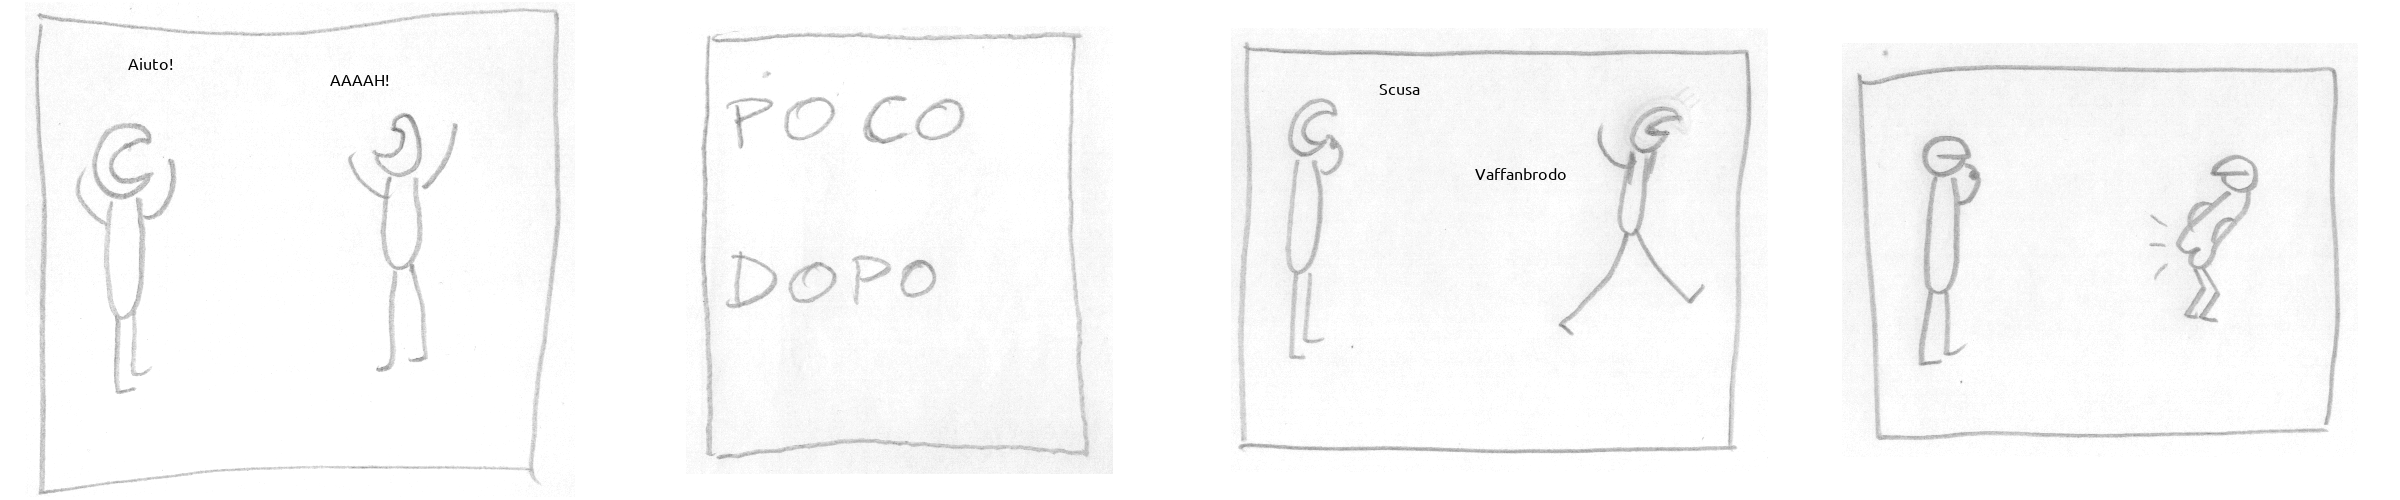
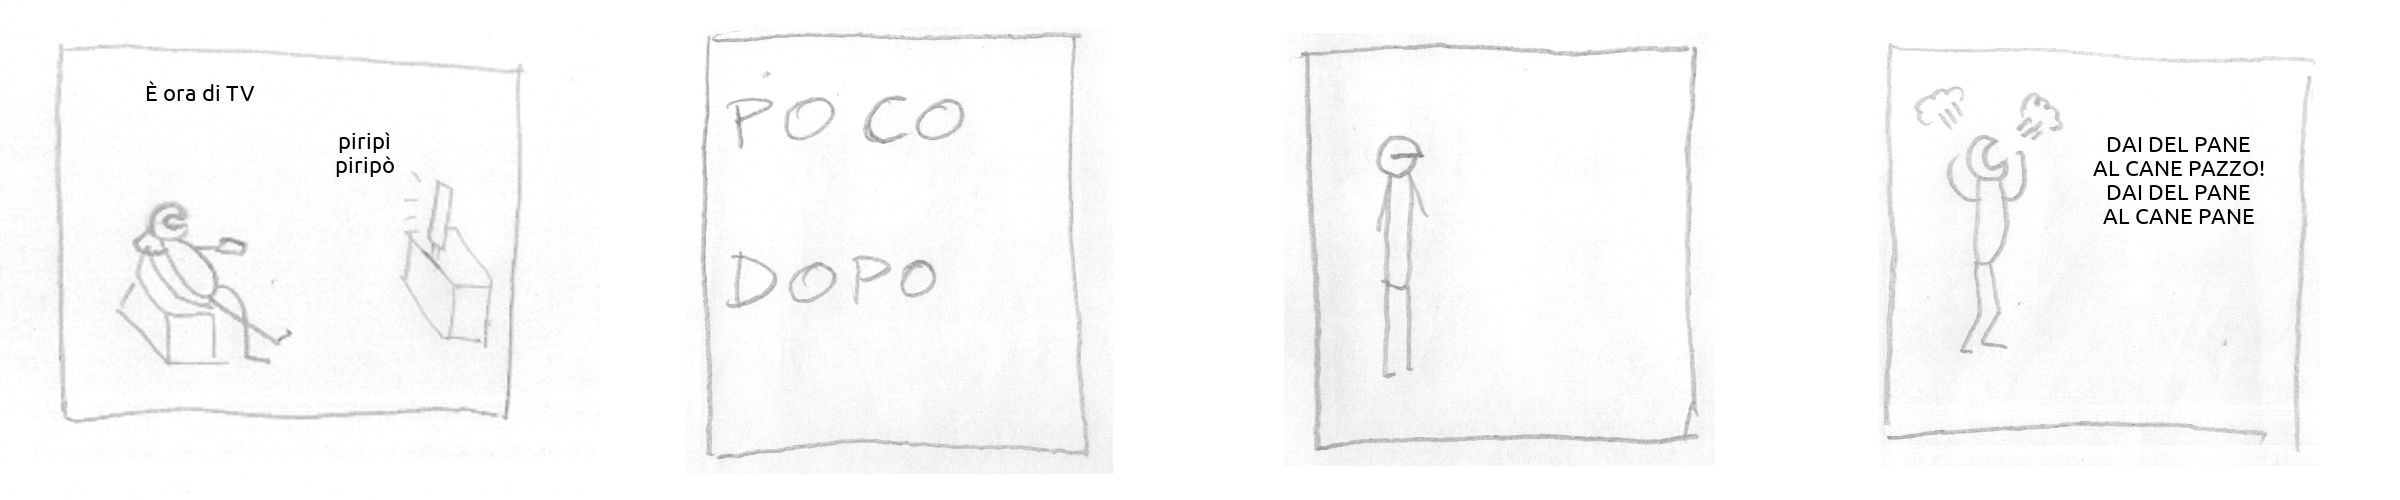
Now you can nest replacements in text, added lines and a new panel

diff --git a/randstrip.py b/randstrip.py
@@ -17,31 +17,31 @@ def replaceText(text):
 		csvReader = csv.reader(rtext,delimiter=";") 
 		for row in csvReader:
 			if text.find(row[0]) != -1:
-				text = text.replace(row[0],row[random.randint(1,len(row)-1)])
+				text = text.replace(row[0],row[random.randint(1,len(row)-1)],1)
 				return text
 
-def fetchText(indText):	
-	"""This function fetch the text for the image with just only one character
-	rtext.csv definition is: 1st column the name of the file (i.e. A001.png), 2nd x-coord, 3rd y-coord, 4th and subsequent, the possible outcomes
-	Delimiter is ; and line feeds @, if there aren't any options, it returns 0 (no text)
-	It returns a tuple (x,y,text)"""
-	with open(fileDir+"rtext.csv") as rtext:
-		csvReader = csv.reader(rtext,delimiter=';')
-		for row in csvReader:
-			if row[0]==indText:
-				if len(row)>2:
-					return row[1],row[2],row[random.randint(3,len(row)-1)].replace('@','\n')
-				else:
-					return 0
+#def fetchText(indText):	
+#	"""This function fetch the text for the image with just only one character
+#	rtext.csv definition is: 1st column the name of the file (i.e. A001.png), 2nd x-coord, 3rd y-coord, 4th and subsequent, the possible outcomes
+#	Delimiter is ; and line feeds @, if there aren't any options, it returns 0 (no text)
+#	It returns a tuple (x,y,text)"""
+#	with open(fileDir+"rtext.csv") as rtext:
+#		csvReader = csv.reader(rtext,delimiter=';')
+#		for row in csvReader:
+#			if row[0]==indText:
+#				if len(row)>2:
+#					return row[1],row[2],row[random.randint(3,len(row)-1)].replace('@','\n')
+#				else:
+#					return 0
 
-def fetch2Text(indText):
+def fetchText(indText):
 	"""This function fetch the text for the image with two characters
 	rtext.csv definition is: 1st column the name of the file (i.e. B001.png), 2nd x-coord, 3rd y-coord of the first string
 	4th x-coord, 5th y-coord of the second string, 6th and subsequent are the outcomes, alternated as the odd one is an
 	answer to the even one
 	Delimiter is ; and line feeds @, if there aren't any options, it returns 0 (no text)
 	It returns a tuple(x1,y1,x2,y2,text1,text2)"""
-	with open(fileDir+"r2text.csv") as rtext:
+	with open(fileDir+"rtext.csv") as rtext:
 		csvReader = csv.reader(rtext,delimiter=';')
 		for row in csvReader:
 			if row[0]==indText:
@@ -95,24 +95,26 @@ def writeStrip(story):
 			vign = Image.open(fileDir+indVign).convert('RGBA')
 			addtext = ImageDraw.Draw(vign)
 			fnt = ImageFont.truetype(fileDir+"ubuntu.ttf",22)
-			if indVign[0] == 'A':
-				textVign = fetchText(indVign)
-				if textVign !=0:
-					text1 = textVign[2]
-					if text1.find('$') != -1:
-						text1 = replaceText(text1)
-					addtext.multiline_text((int(textVign[0]),int(textVign[1])),text1,fill="#000000",font=fnt,align="center")
-			else:
-				textVign = fetch2Text(indVign)
-				if textVign!=0:
-					text1 = textVign[4]
-					text2 = textVign[5]
-					if text1.find('$') != -1:
-						text1 = replaceText(text1)
-					if text2.find('$') != -1:
-						text2 = replaceText(text2)
-					addtext.multiline_text((int(textVign[0]),int(textVign[1])),text1,fill="#000000",font=fnt,align="center")
-					addtext.multiline_text((int(textVign[2]),int(textVign[3])),text2,fill="#000000",font=fnt,align="center")
+			#if indVign[0] == 'A':
+			#	textVign = fetchText(indVign)
+			#	if textVign !=0:
+			#		text1 = textVign[2]
+			#		if text1.find('$') != -1:
+			#			text1 = replaceText(text1)
+			#		addtext.multiline_text((int(textVign[0]),int(textVign[1])),text1,fill="#000000",font=fnt,align="center")
+			#else:
+			textVign = fetchText(indVign)
+			
+			if textVign!=0:
+				text1 = textVign[4]
+				text2 = textVign[5]
+				while text1.find('$') != -1:
+					text1 = replaceText(text1)
+				while text2.find('$') != -1:
+					text2 = replaceText(text2)
+				addtext.multiline_text((int(textVign[0]),int(textVign[1])),text1,fill="#000000",font=fnt,align="center")
+				addtext.multiline_text((int(textVign[2]),int(textVign[3])),text2,fill="#000000",font=fnt,align="center")
+			
 			obj = addThing(indVign)
 			if obj!=0:
 				objImg = Image.open(fileDir+obj[0])
